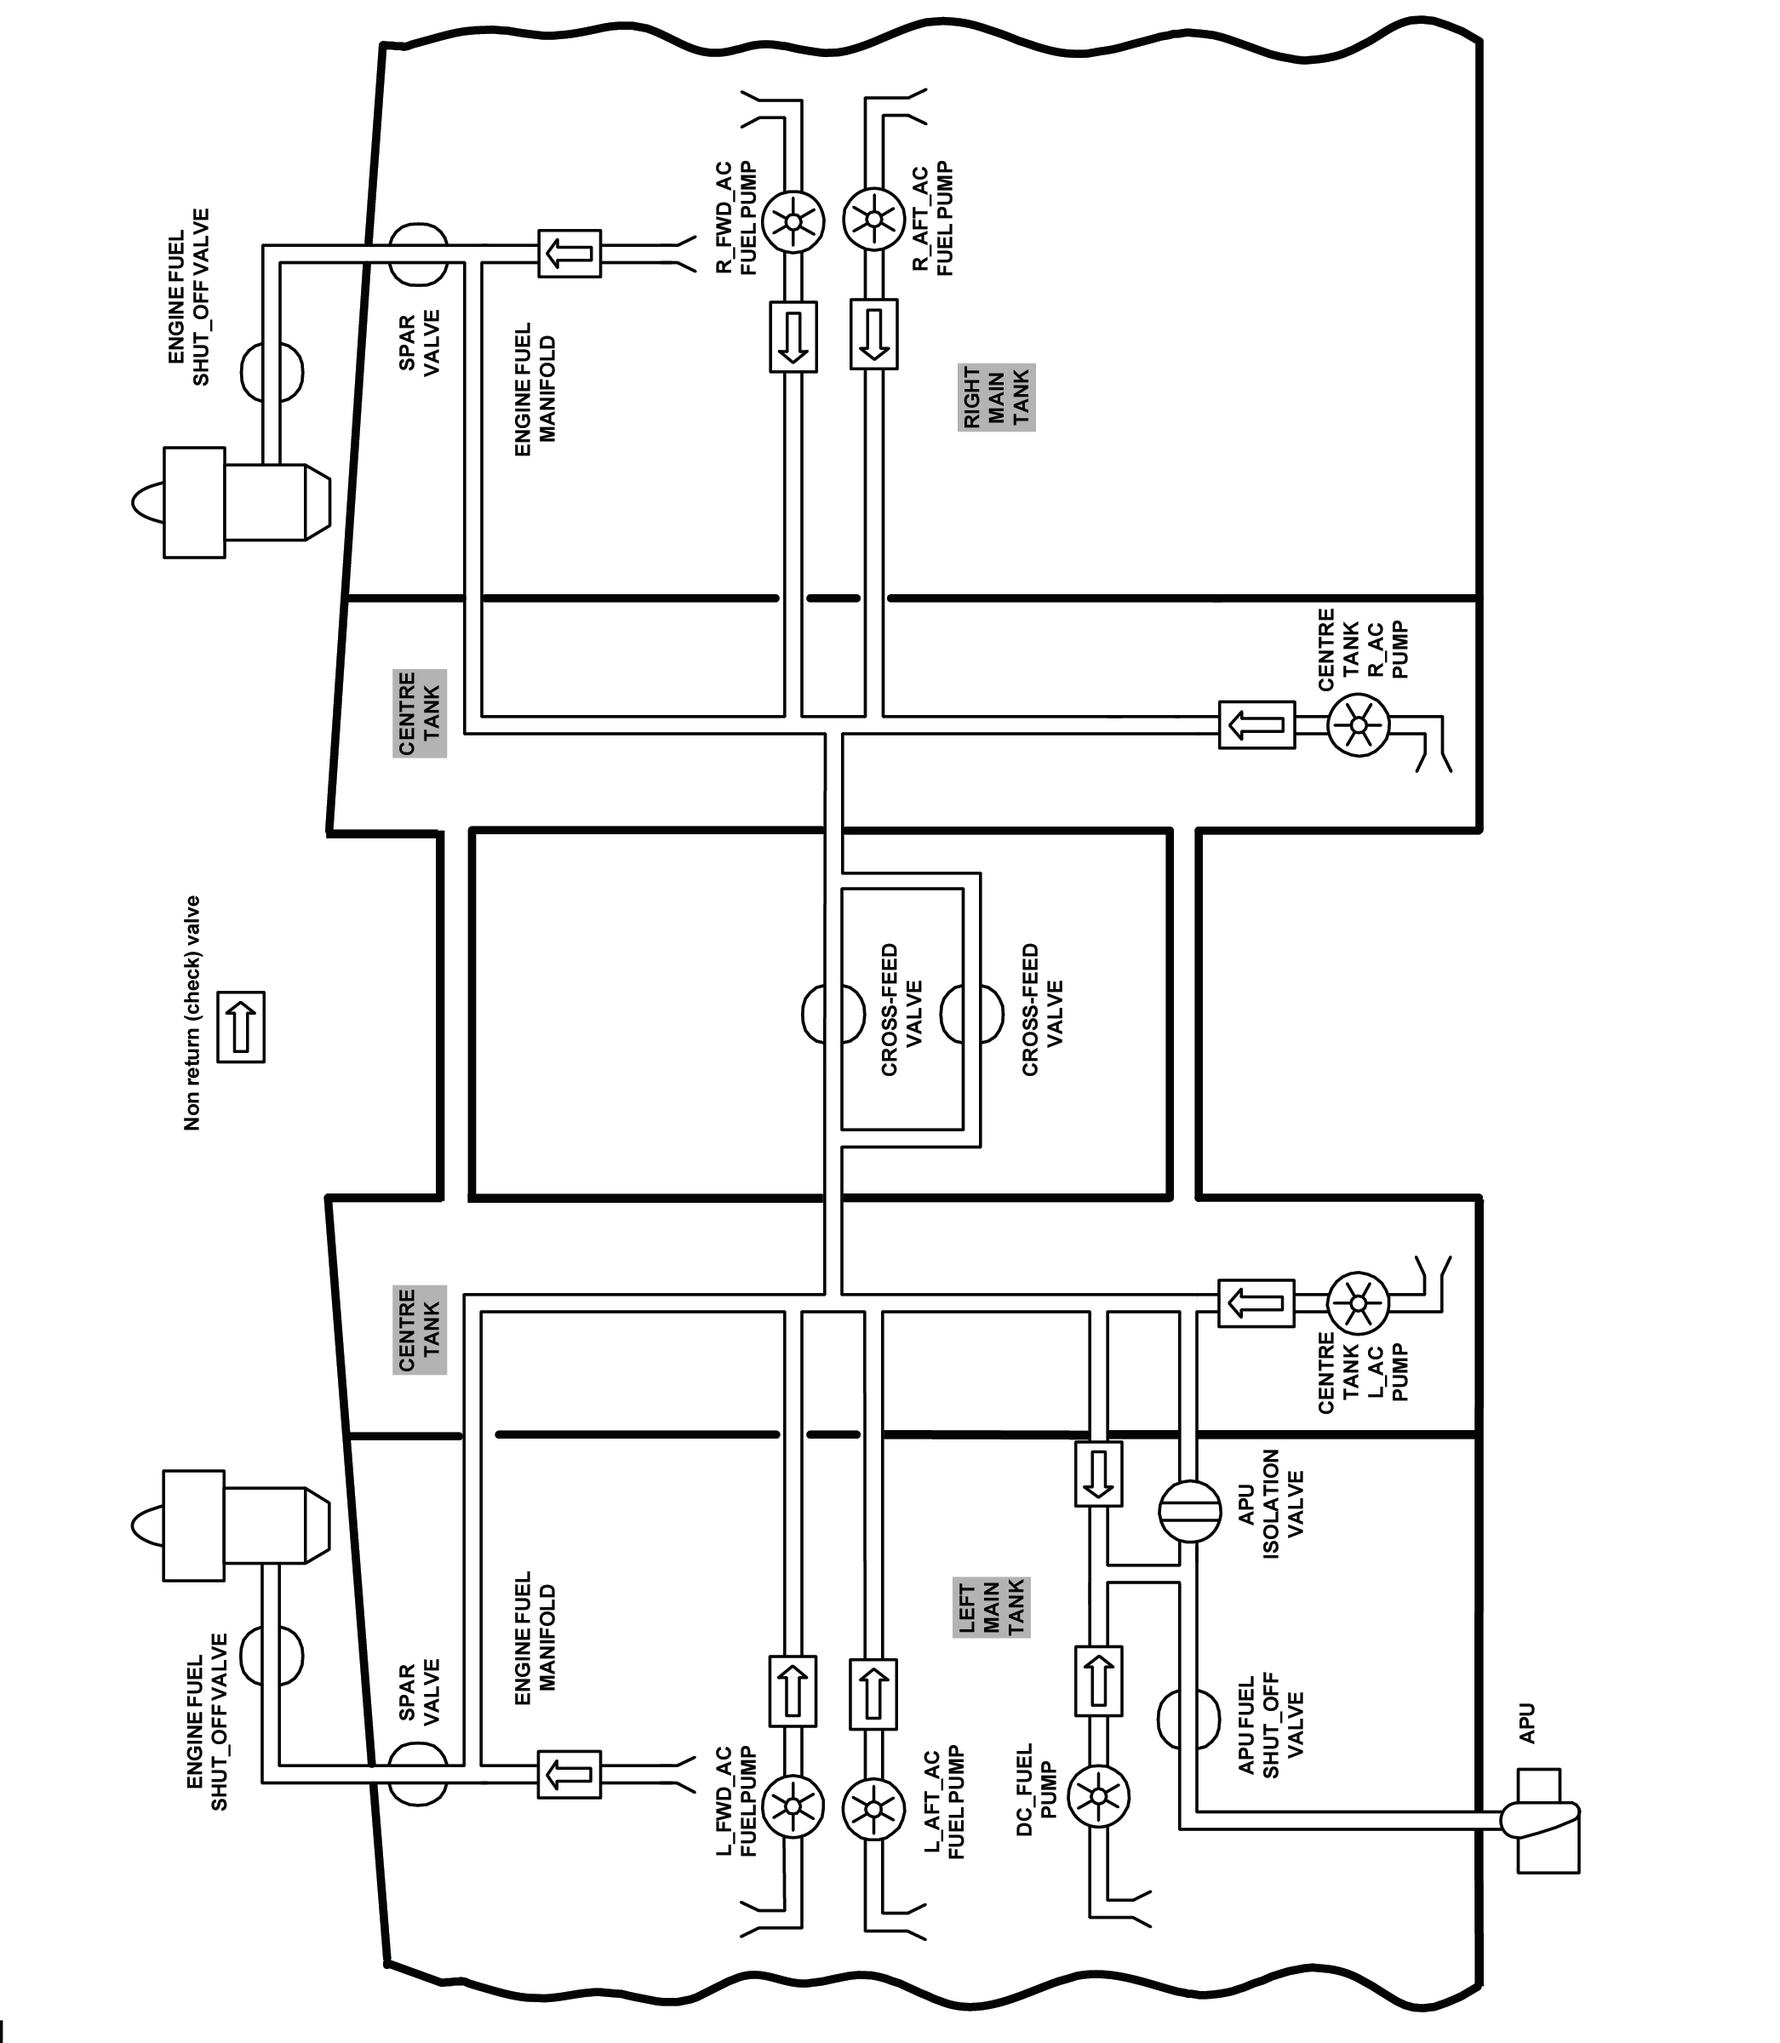
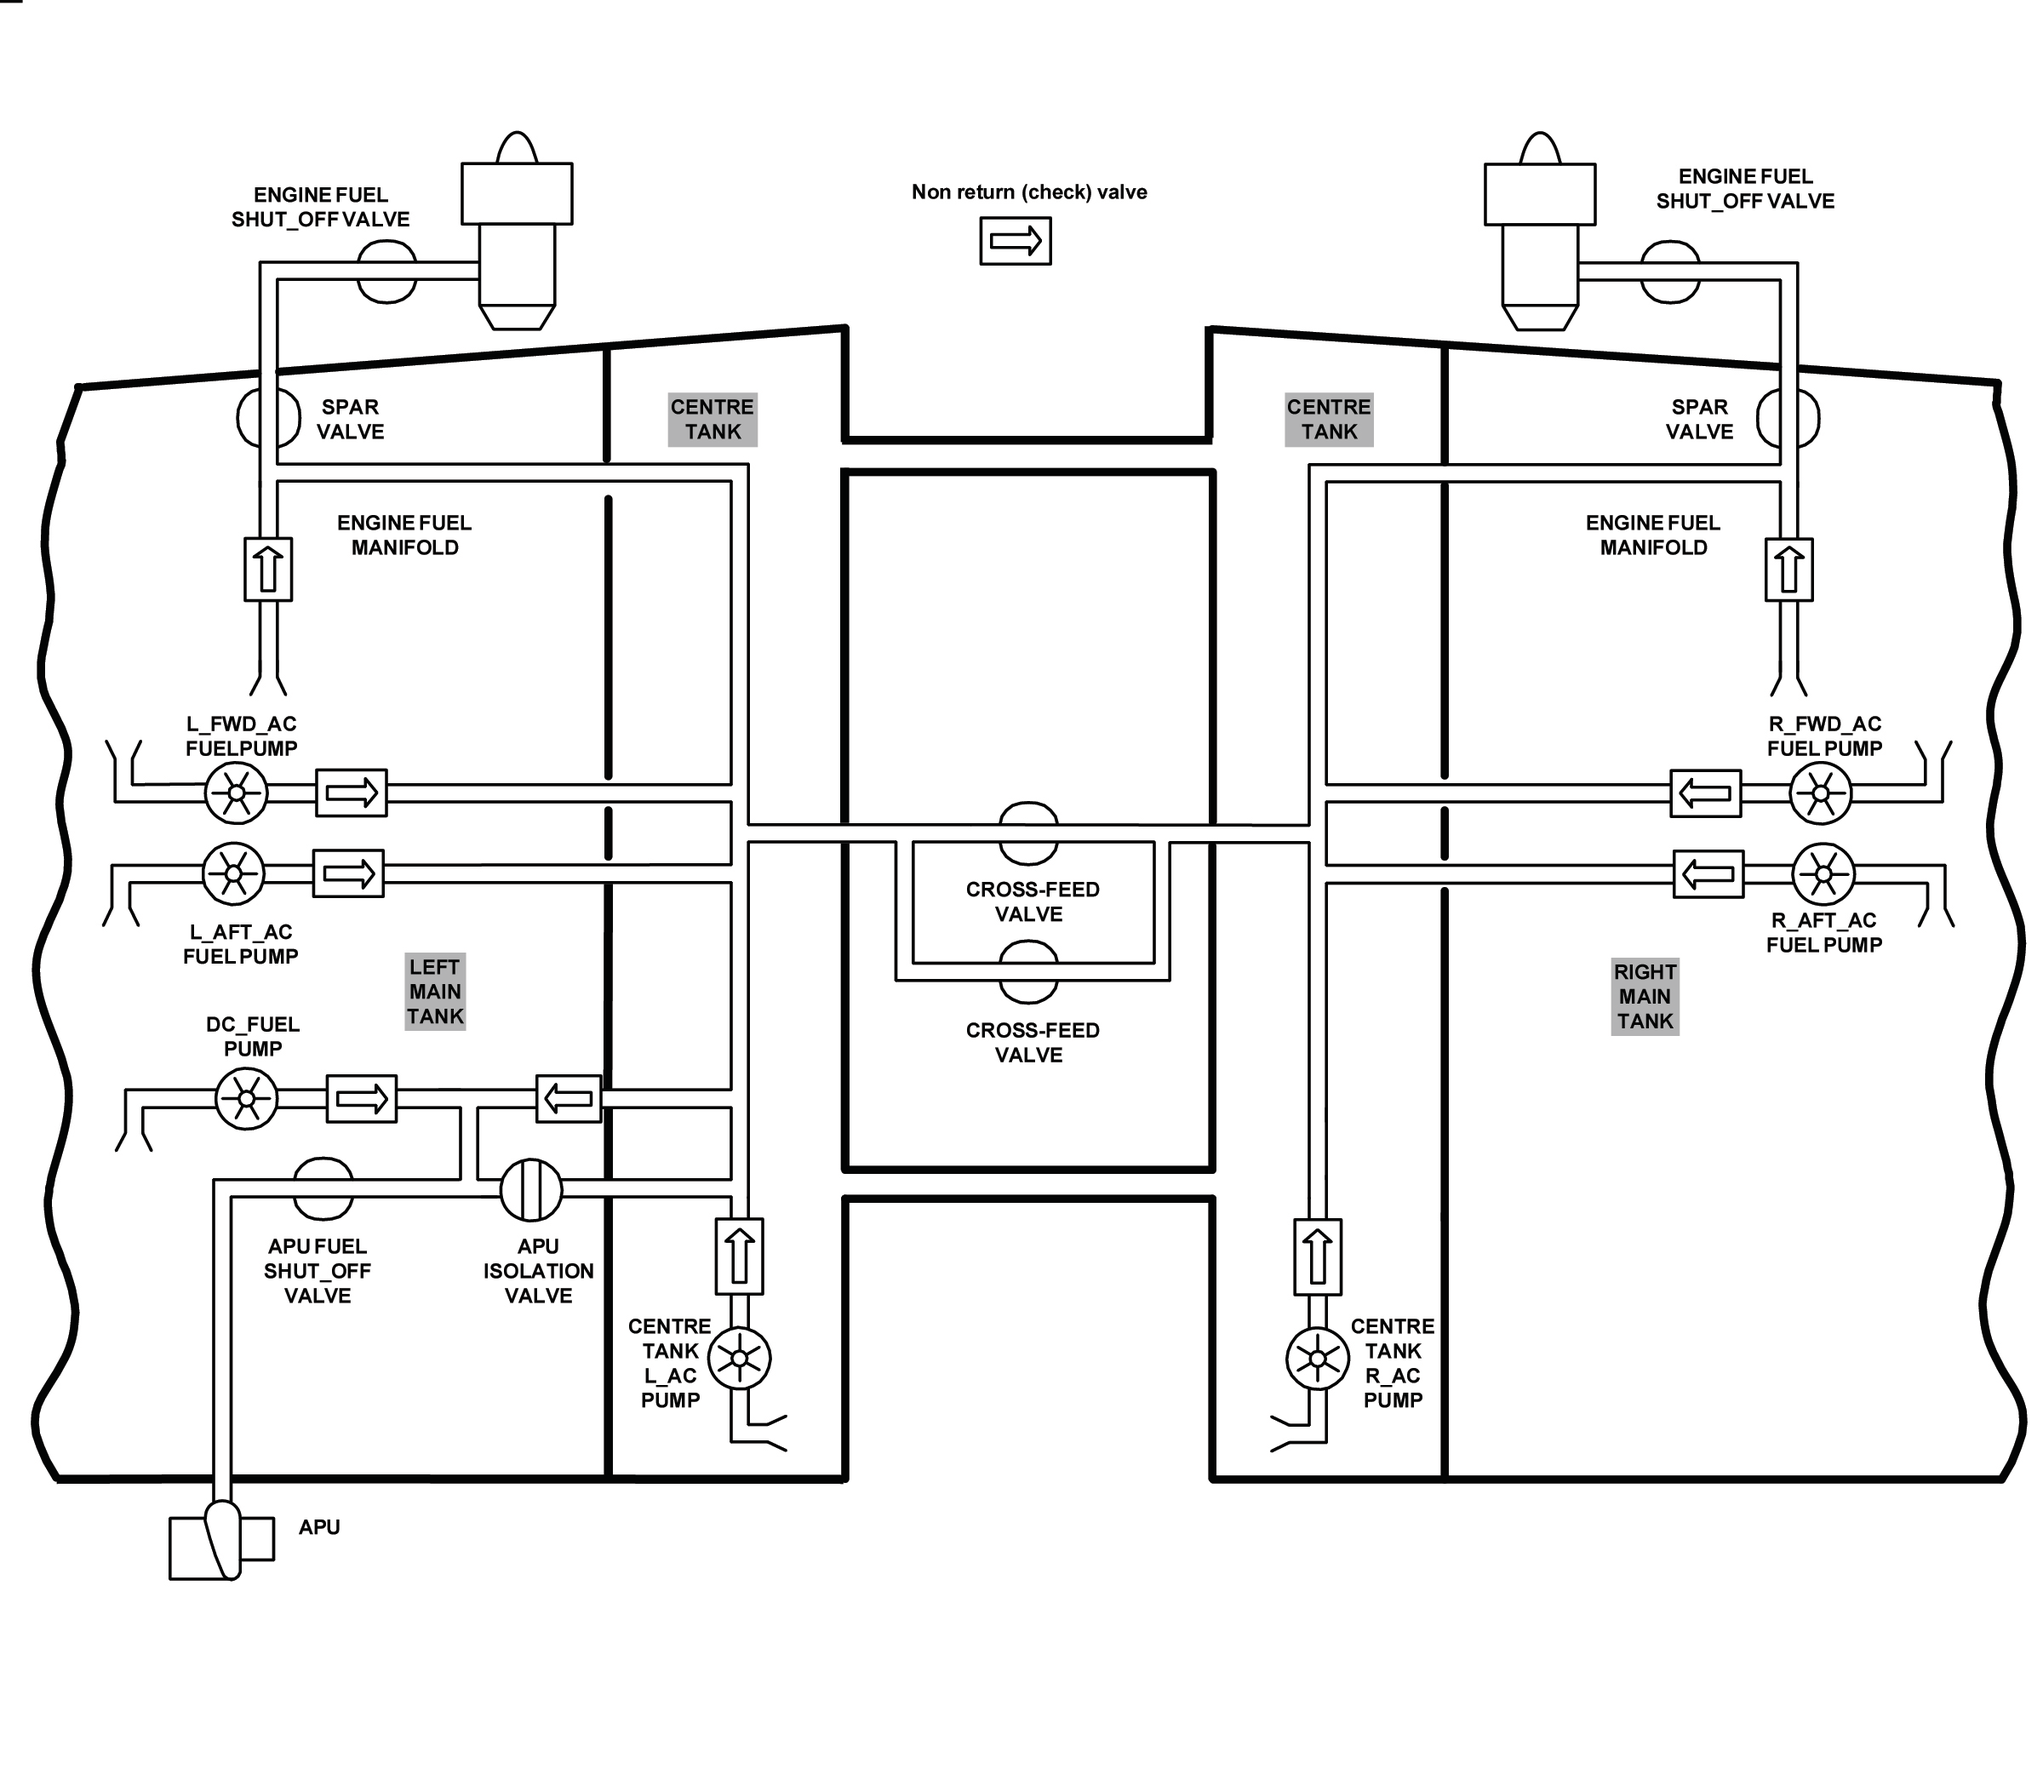
Airframes study ch16 (fuel systems): 5 figure notes + cull + rotate fig_04

diff --git a/frontend/src/app/data/aircraft-technical-figure-notes.ts b/frontend/src/app/data/aircraft-technical-figure-notes.ts
@@ -5,6 +5,28 @@
 // Each string in the array is one paragraph.
 
 export const FIGURE_NOTES: Record<string, string[]> = {
+  // ─── Airframes — Fuel Systems (A.1.2) ───
+  "atgfig-ch16_fig_01": [
+    "This is a gravity-feed fuel system, used on high-wing light aircraft. Fuel sits in a tank in each wing, high above the engine, so it simply flows down to the engine under its own weight — no pump is needed.",
+    "Each tank has a filler cap and a vent (so air can replace the fuel used), and the two tanks are joined by an interconnect vent to keep them balanced. Fuel passes a finger screen, then a fuel shut-off valve, then a main line strainer with a quick-drain valve before reaching the carburettor.",
+    "Water and sediment collect at the lowest points, so there are sump drain plugs and a quick-drain at the strainer for the pre-flight water check. An engine primer squirts fuel straight to the intake manifold to help starting.",
+  ],
+  "atgfig-ch16_fig_02": [
+    "This is a pumped fuel system for a low-wing light aircraft, where the tanks are below the engine so gravity cannot do the job. An engine-driven fuel pump supplies the engine in flight, backed up by an electric fuel pump (used for start, take-off, landing and as a standby).",
+    "A fuel tank selector valve lets the pilot draw from the left or right main tank (or off). The fuel passes a strainer on its way to the carburettor; a priming pump, throttle and mixture control complete the engine side.",
+    "The instruments show left and right fuel quantity (from tank level sensors) plus fuel pressure, oil temperature and oil pressure, so the pilot can confirm the system is delivering fuel correctly.",
+  ],
+  "atgfig-ch16_fig_04": [
+    "This is a modern twin-engine (ETOPS) jet fuel system. Each wing holds a main tank with two AC boost pumps (a forward and an aft pump) that push fuel through the engine fuel manifold, past a spar valve and the engine fuel shut-off valve, to its engine.",
+    "A cross-feed valve in the middle lets either tank feed either engine — essential for ETOPS, where an engine must keep running on the good tank's fuel. A centre tank with its own AC pumps feeds first (it is used up before the wing tanks), and a DC fuel pump gives a back-up and feeds the APU through the APU isolation and shut-off valves.",
+    "Non-return (check) valves stop fuel flowing backwards, and the spar valves (at the wing root) give a fireproof shut-off right where the fuel leaves the tank for the engine.",
+  ],
+  "atgfig-ch16_fig_05": [
+    "This shows a representative large-jet fuel system with several tanks. Each tank has boost pumps (P) and the centre/stabiliser tanks also have transfer arrangements. A refuel & jettison gallery runs across the aircraft.",
+    "Cross-feed valves and a fuel-transfer cross-feed valve let fuel be moved side to side and fed to any engine, while inter-engine and fuel shut-off valves control the supply to each engine. A stabiliser (tail trim) tank is used to shift the centre of gravity for trim and can be transferred forward.",
+    "The same gallery is used for pressure refuelling on the ground and for jettison (fuel dumping) in flight, so the aircraft can quickly reduce weight to a safe landing weight in an emergency.",
+  ],
+
   // ─── Airframes — Fire Detection & Protection (A.1.6) ───
   "atgfig-ch15_fig_01": [
     "This is the fire (combustion) triangle. A fire needs three things at once: heat (a source of ignition), fuel (something to burn) and oxygen (to support the burning).",

diff --git a/frontend/src/app/data/aircraft-technical-figures.ts b/frontend/src/app/data/aircraft-technical-figures.ts
@@ -154,10 +154,6 @@ export const ATG_AIRFRAME_FIGURES: AtgFigureMeta[] = [
   { section: "A.1.6", topic: "Fire Detection & Protection", title: "Figure 15.13 Extinguishers", caption: "Fire Detection & Protection", file: "ch15_fig_13.png", id: "atgfig-ch15_fig_13" },
   { section: "A.1.2", topic: "Fuel Systems", title: "Figure 16.1 Single-engine light aircraft gravity feed fuel system", caption: "Fuel Systems", file: "ch16_fig_01.png", id: "atgfig-ch16_fig_01" },
   { section: "A.1.2", topic: "Fuel Systems", title: "Figure 16.2 Single-engine light aircraft fuel system", caption: "Fuel Systems", file: "ch16_fig_02.png", id: "atgfig-ch16_fig_02" },
-  { section: "A.1.2", topic: "Fuel Systems", title: "Figure 16.3 Fuel schematic", caption: "Fuel Systems", file: "ch16_fig_03.png", id: "atgfig-ch16_fig_03" },
   { section: "A.1.2", topic: "Fuel Systems", title: "Figure 16.4 A modern twin-engine ETOPS aircraft fuel system", caption: "Fuel Systems", file: "ch16_fig_04.png", id: "atgfig-ch16_fig_04" },
   { section: "A.1.2", topic: "Fuel Systems", title: "Figure 16.5 A representative jet aircraft engine fuel system", caption: "Fuel Systems", file: "ch16_fig_05.png", id: "atgfig-ch16_fig_05" },
-  { section: "A.1.2", topic: "Fuel Systems", title: "Figure 16.6 Attitude compensation", caption: "Fuel Systems", file: "ch16_fig_06.png", id: "atgfig-ch16_fig_06" },
-  { section: "A.1.2", topic: "Fuel Systems", title: "Figure 16.7 Electronic fuel system display (Airbus)", caption: "Fuel Systems", file: "ch16_fig_07.png", id: "atgfig-ch16_fig_07" },
-  { section: "A.1.2", topic: "Fuel Systems", title: "Figure 16.8 An external refuelling control panel", caption: "Fuel Systems", file: "ch16_fig_08.png", id: "atgfig-ch16_fig_08" },
 ];
